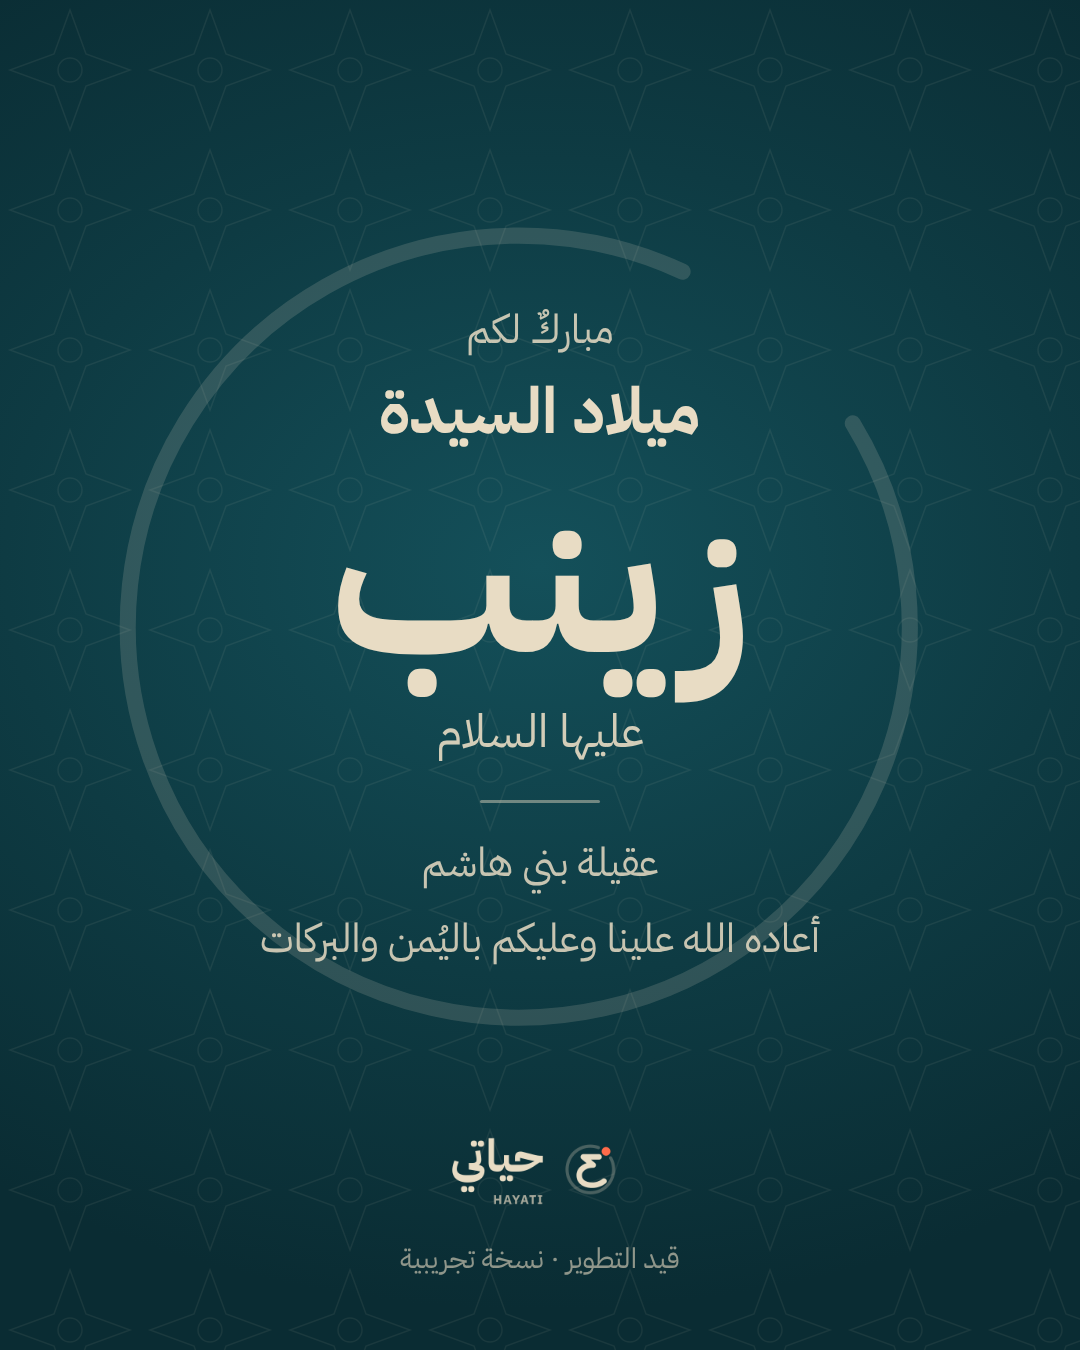
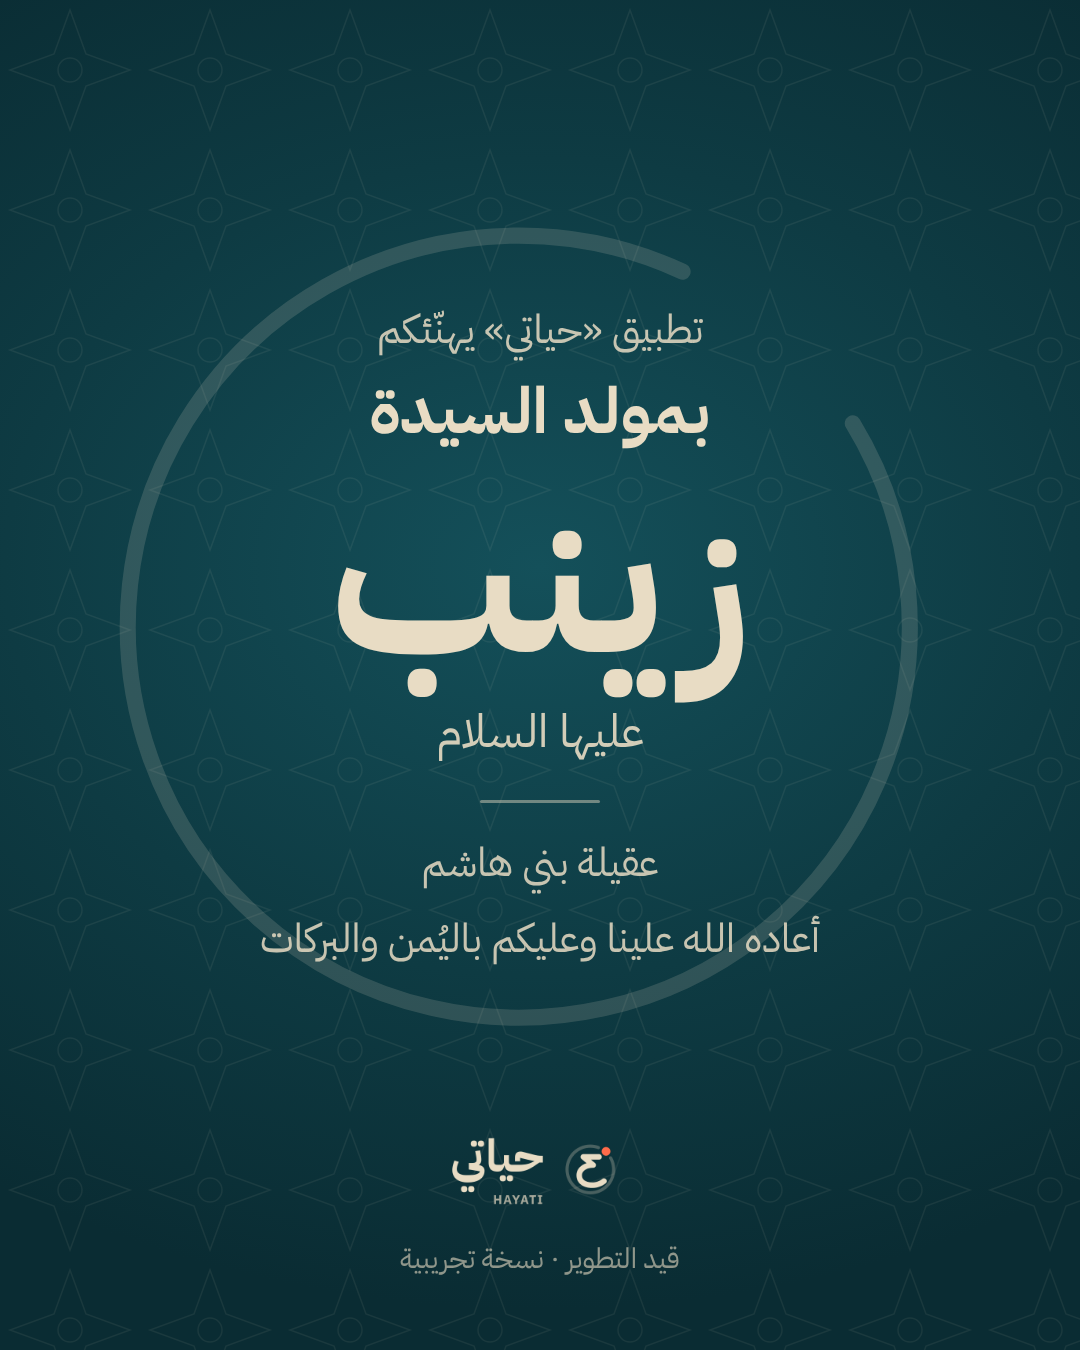
Greeting: «تطبيق حياتي يهنّئكم بمولد السيدة زينب»
Claude-Session: https://claude.ai/code/session_01AXqw1919FcrLaaxuJmUf2G

Changed region(s): [[0.3361, 0.2178, 0.6722, 0.3422]]

diff --git a/videos/zainab-mawlid/card-hayati.html b/videos/zainab-mawlid/card-hayati.html
@@ -24,8 +24,8 @@ body{font-family:Plex,sans-serif;color:#E8DCC4;overflow:hidden;position:relative
 <rect width="100%" height="100%" fill="url(#p)"/></svg>
 <svg class="arc" viewBox="0 0 400 400"><path d="M 336 108 A 170 170 0 1 1 262 42" fill="none" stroke="#E8DCC4" stroke-opacity=".16" stroke-width="7" stroke-linecap="round"/></svg>
 <div class="text">
- <div class="mub">مباركٌ لكم</div>
- <div class="kick">ميلاد السيدة</div>
+ <div class="mub">تطبيق «حياتي» يهنّئكم</div>
+ <div class="kick">بمولد السيدة</div>
  <div class="name">زينب</div>
  <div class="as">عليها السلام</div>
  <div class="line"></div>
